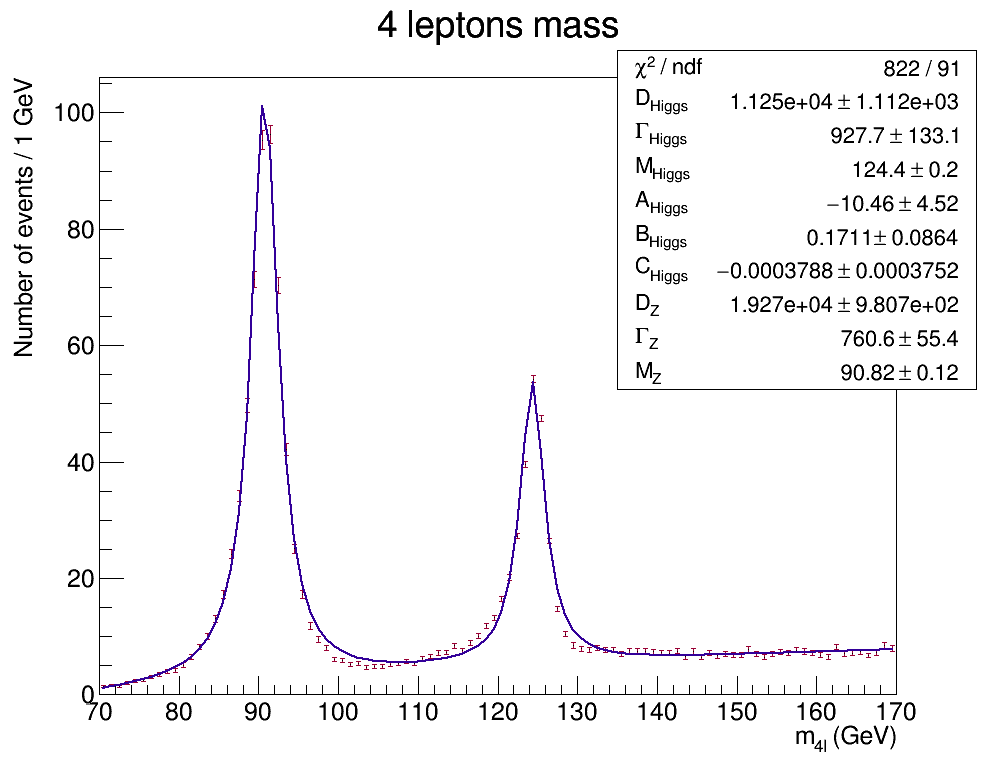
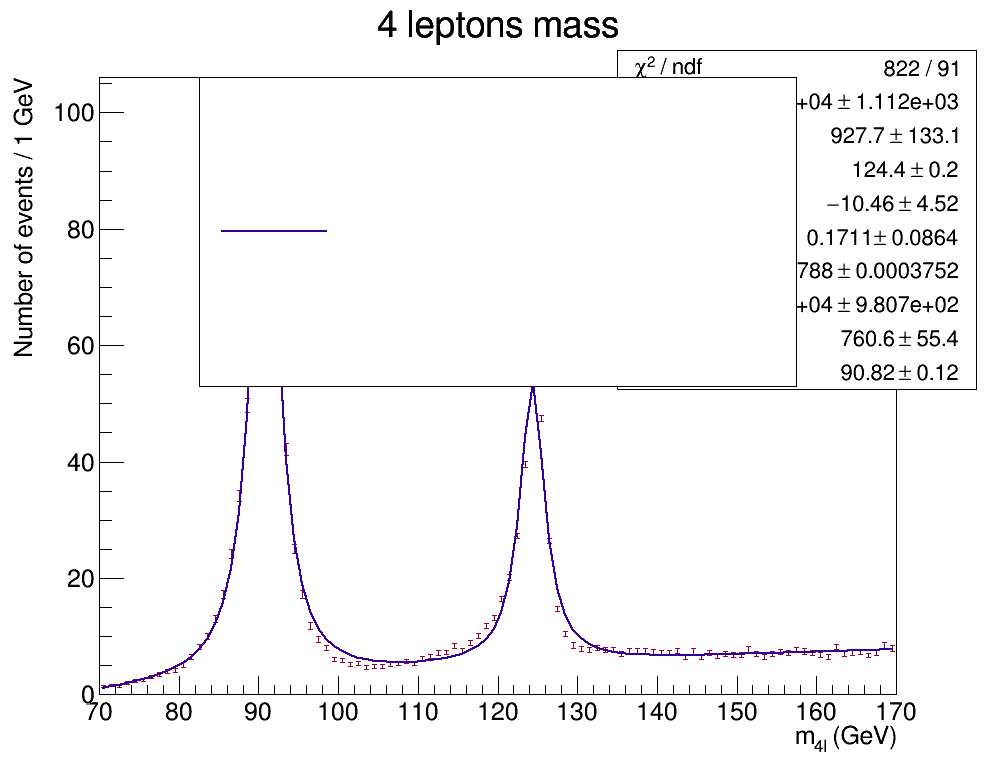
Zad 2 dovrsen

diff --git a/Vjezbe_8/Analyzer.cpp b/Vjezbe_8/Analyzer.cpp
@@ -12,10 +12,6 @@ void Analyzer::Model_70_170GeV()
     f_model->SetLineColor(kViolet+4);
 
 
-    TLegend *leg = new TLegend(0.2, 0.7, 0.9, 0.9);
-    leg->AddEntry(f_model, "f(x)=#frac{D_{Higgs}#Gamma_{Higgs}}{(x^{2}-M_{Higgs}^{2})^{2} + 0.25#Gamma_{Higgs}^{2}} + A_{Higgs} + B_{Higgs}x + C_{Higgs}x^{2} + #frac{D_{Z}#Gamma_{Z}}{(x^{2}-M_{Z}^{2})^{2}}" , "l");
-    leg->Draw();
-
     h_m4l_higgs->Add(h_m4l_pozadina); // naredba ako nije pozvana PlotPublicHistograms()!
     h_m4l_higgs->Fit(f_model, "L"); // "WL" = use Loglikelihood with weighted bin contents
     gStyle->SetOptFit();
@@ -24,6 +20,10 @@ void Analyzer::Model_70_170GeV()
     h_m4l_higgs->GetYaxis()->SetTitle("Number of events / 1 GeV");
     h_m4l_higgs->Draw("E1 X0");
     f_model->Draw("same");
+
+    TLegend *leg = new TLegend(0.2, 0.5, 0.8, 0.9);
+    leg->AddEntry(f_model, "#splitline{ f(x)=#frac{D_{Higgs}#Gamma_{Higgs}}{(x^{2}-M_{Higgs}^{2})^{2} + }{ 0.25#Gamma_{Higgs}^{2}} + A_{Higgs} + B_{Higgs}x + C_{Higgs}x^{2} + #frac{D_{Z}#Gamma_{Z}}{(x^{2}-M_{Z}^{2})^{2}} }" , "l");
+    leg->Draw();
 
     cm->SaveAs("teorija.png");
 
